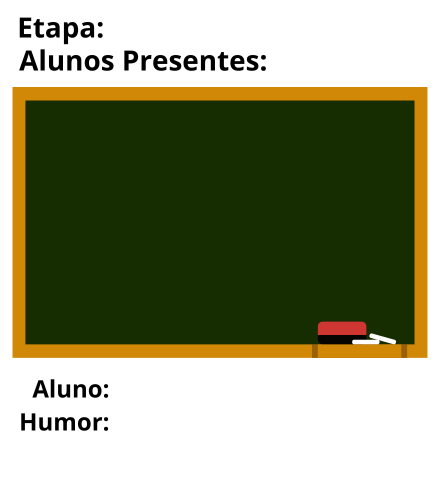
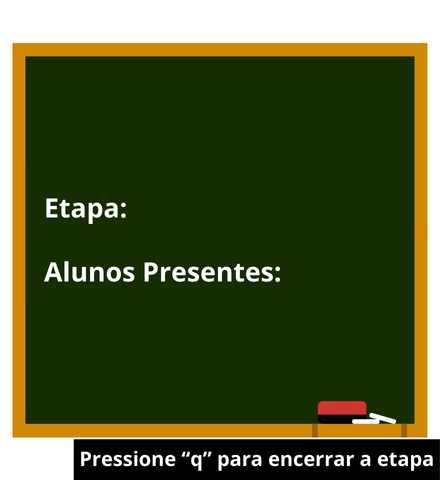
background captura ok

diff --git a/Projeto Final/Código/projeto.py b/Projeto Final/Código/projeto.py
@@ -25,7 +25,7 @@ Path_TelaEncerramento = "Assets/Background-Final.png"
 Path_JsonClassDetails = "Assets/class_details.json"
 Path_FacialModel = "Assets/facial_expression_model_structure.json"
 Path_FacialWeights = "Assets/facial_expression_model_weights.h5"
-Path_ImagensDosAlunos = "Assets/Alunos Cadastrados/"  # Diretório com imagens dos alunos
+Path_ImagensDosAlunos = "Alunos Cadastrados"  # Diretório com imagens dos alunos
 
 #----------------------
 #-   Inicializações   -
@@ -66,7 +66,7 @@ with open(Path_JsonClassDetails, "r", encoding="utf-8") as j:
      class_details = json.loads(j.read())
 
 #Definição da variável de nome dos alunos
-student_names = ['Igor', 'Gustavo', 'Henrique']  # Ideal fazermos simulando a lista de chamada
+student_names = ['henrique']  # Ideal fazermos simulando a lista de chamada
 
 # Função para carregar imagens de alunos e criar codificações
 def load_student_encodings():
@@ -74,7 +74,7 @@ def load_student_encodings():
     known_face_names = []
     
     for student_name in student_names:
-        image_path = f"{Path_ImagensDosAlunos}/{student_name}.jpg"
+        image_path = f"{Path_ImagensDosAlunos}/{student_name}.png"
         student_image = face_recognition.load_image_file(image_path)
         student_face_encoding = face_recognition.face_encodings(student_image)
         
@@ -309,12 +309,12 @@ while(DandoAula==True):
 		elif cv2.waitKey(1) & 0xFF == ord('e'):
 			Periodo = 1
 			TelaCaptura = cv2.imread(Path_TelaCaptura)
-			cv2.putText(TelaCadastro, "Entrada", (110, 40), cv2.FONT_HERSHEY_SIMPLEX, 1, (0,0,0), 2)
+			cv2.putText(TelaCaptura, "Entrada", (135, 215), cv2.FONT_HERSHEY_SIMPLEX, 1, (255,255,255), 2)
 		# Saída de alunos
 		elif cv2.waitKey(1) & 0xFF == ord('s'):
 			Periodo = 2
 			TelaCaptura = cv2.imread(Path_TelaCaptura)
-			cv2.putText(TelaCadastro, "Saida", (110, 40), cv2.FONT_HERSHEY_SIMPLEX, 1, (0,0,0), 2)
+			cv2.putText(TelaCaptura, "Saida", (135, 215), cv2.FONT_HERSHEY_SIMPLEX, 1, (255,255,255), 2)
 
 	# Habilita a etapa de cadastro e inicializa a variável contadora de alunos registrados
 	Capturando = True
@@ -349,16 +349,16 @@ while(DandoAula==True):
 				# Função que detecta a emoção
 				Student_emotion = DetectaEmocao(detected_face)
 				# Grava as informações da turma
-				Student_Name = 'Aluno1'
+				#Student_Name = 'Aluno1'
 				df_ListaDePresenca, Total_Students = GravarNoBanco(df_ListaDePresenca, Student_Name, Student_emotion, Periodo, datetime.now(), Total_Students)
 				# Reação personalizada de acordo com a emoção
-				GerarCondicionalDeEmocao(Student_emotion, Student_Name)
+				#GerarCondicionalDeEmocao(Student_emotion, Student_Name)
 
 		# Atualiza a tela de cadastro
 		img = cv2.hconcat([cam, TelaCaptura])
 
 		# Adiciona as informações atualizadas na tela
-		cv2.putText(img, str(Total_Students), (920, 70), cv2.FONT_HERSHEY_SIMPLEX, 1, (0,0,0), 2)
+		cv2.putText(img, str(Total_Students), (925, 280), cv2.FONT_HERSHEY_SIMPLEX, 1, (255,255,255), 2)
 		cv2.putText(img, str(Student_Name), (760, 400), cv2.FONT_HERSHEY_SIMPLEX, 1, (0,0,0), 2)
 		cv2.putText(img, str(Student_emotion), (760, 430), cv2.FONT_HERSHEY_SIMPLEX, 1, (0,0,0), 2)
 
